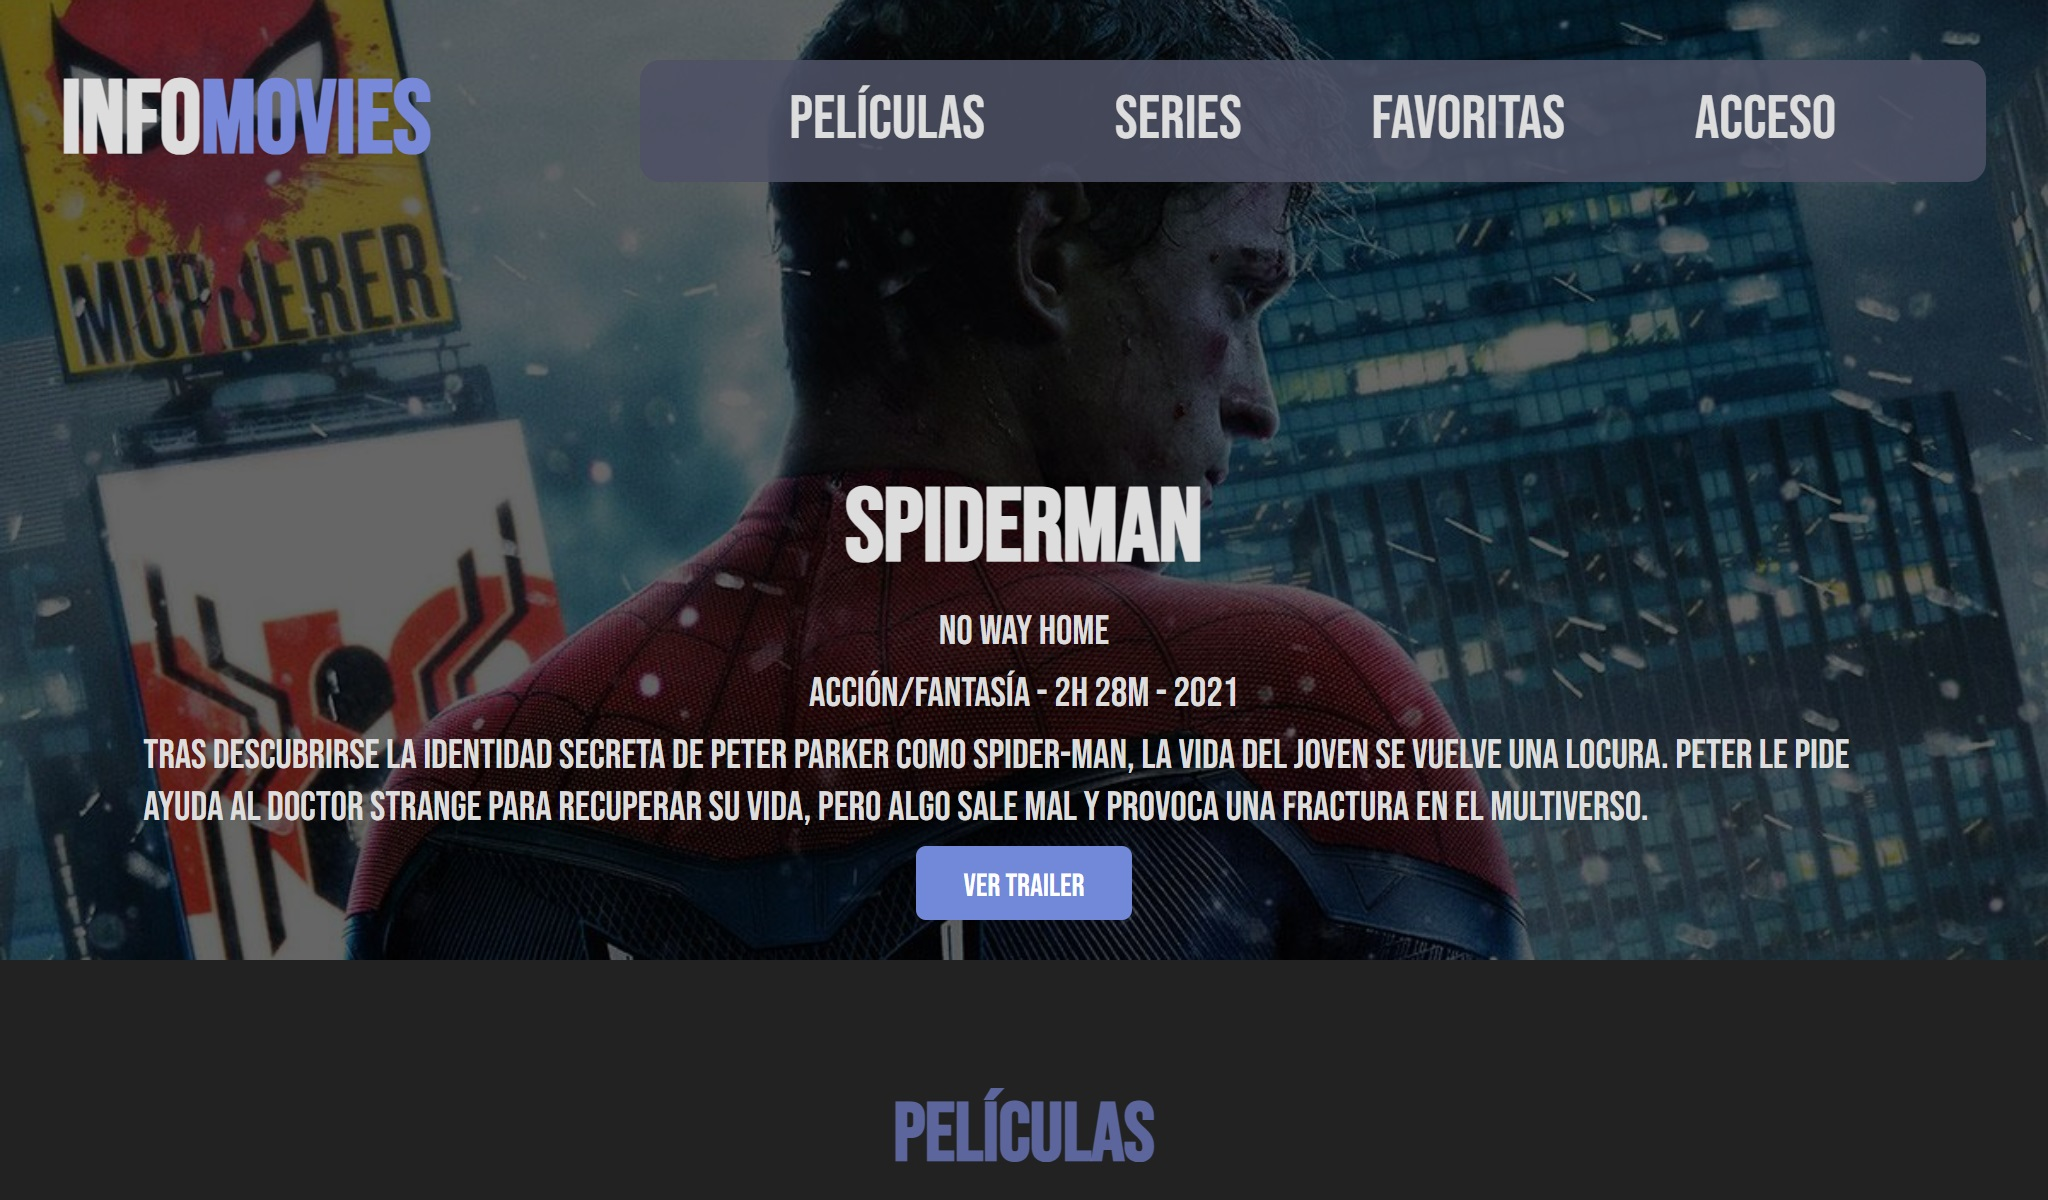
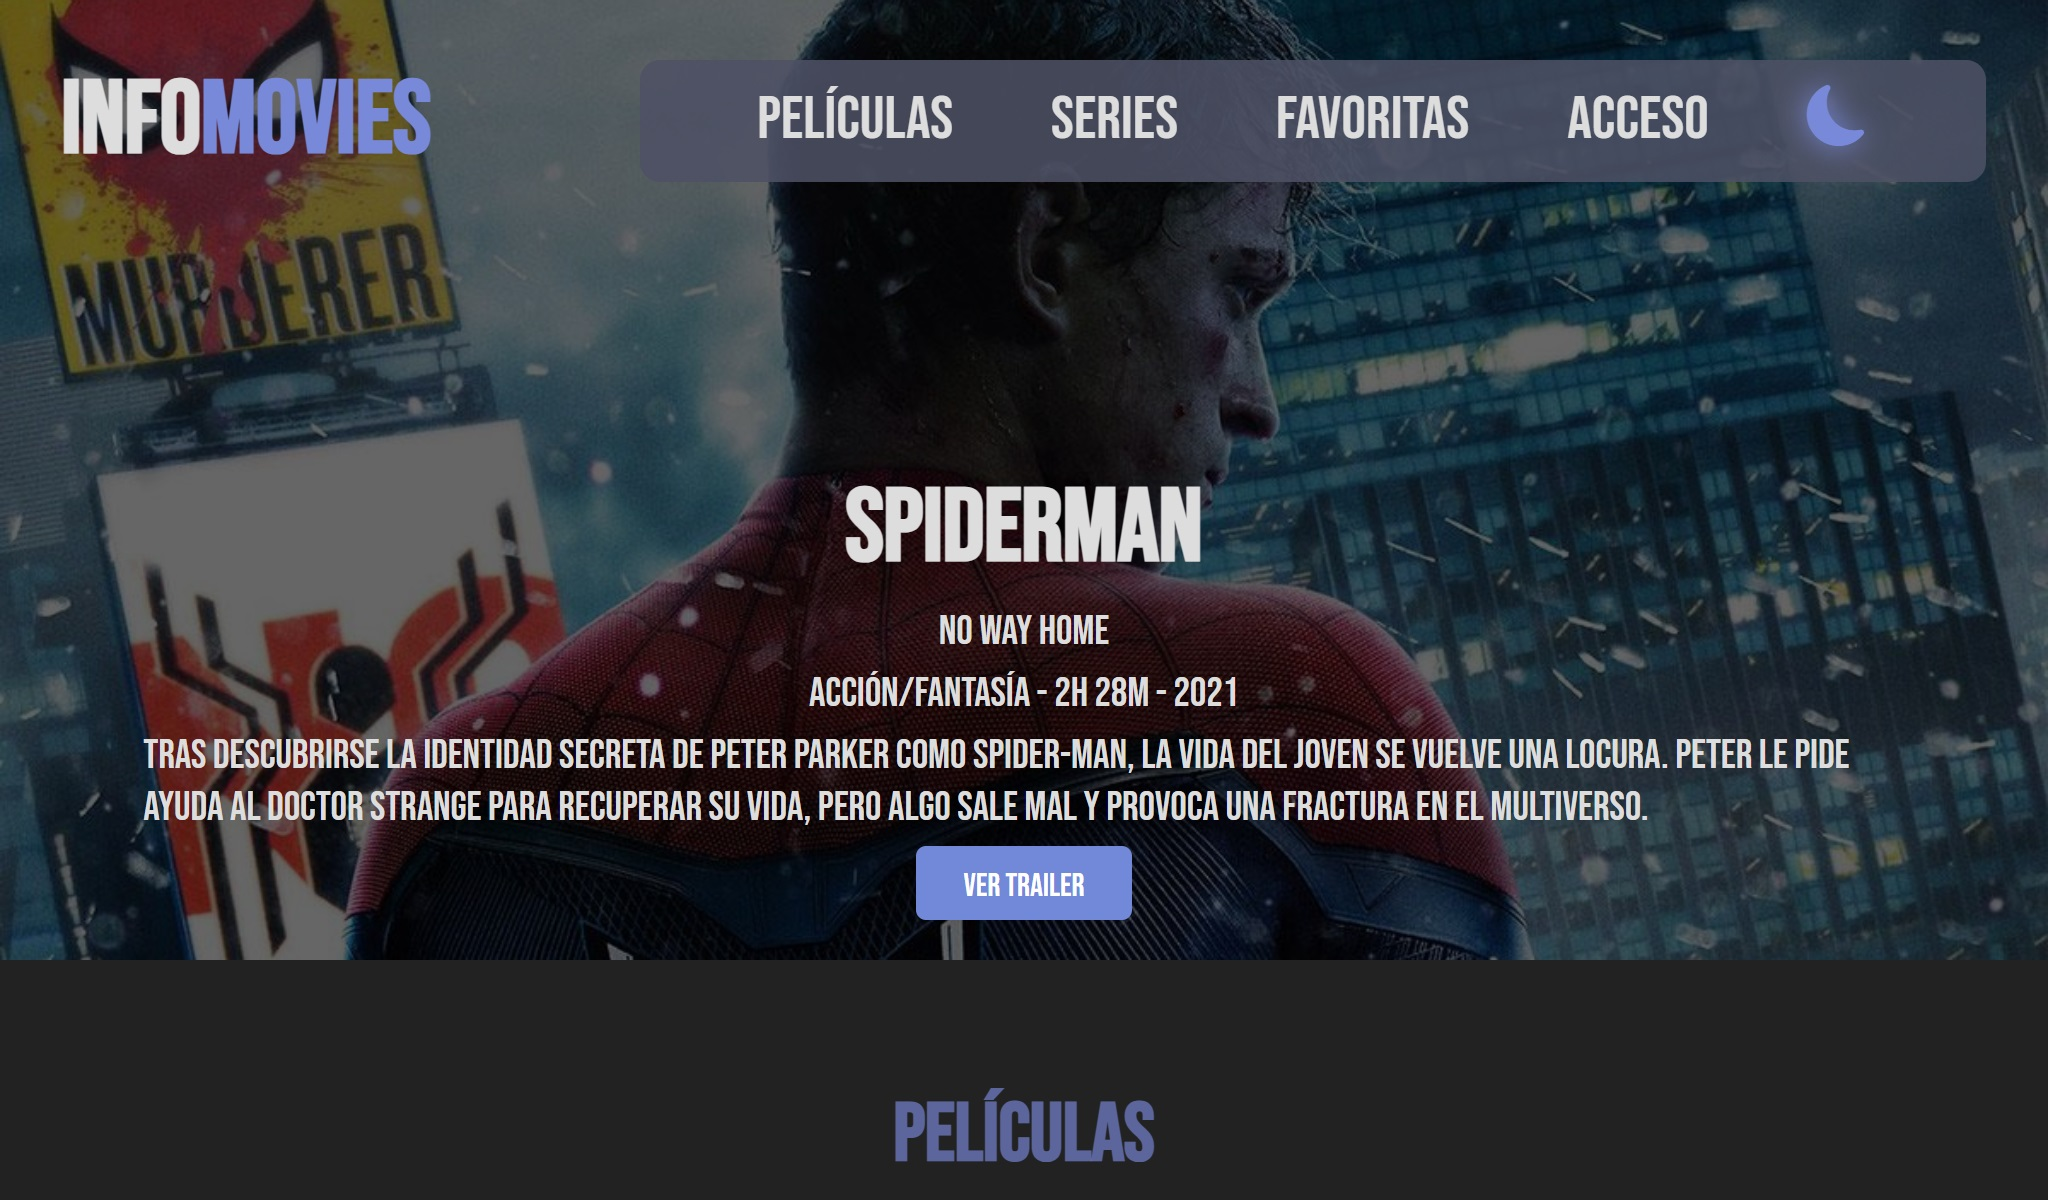
+detalles

Changed region(s): [[0.375, 0.0617, 0.9062, 0.1233]]

diff --git a/formAcceso.html b/formAcceso.html
@@ -3,12 +3,20 @@
   <head>
     <meta charset="UTF-8" />
     <meta name="viewport" content="width=device-width, initial-scale=1.0" />
+    <!-- enlace a bootstrap-icons -->
     <link
       rel="stylesheet"
       href="https://cdn.jsdelivr.net/npm/bootstrap-icons@1.11.3/font/bootstrap-icons.min.css"
     />
+    <!-- enlace a font-awesome -->
+    <link
+    rel="stylesheet"
+    href="https://cdnjs.cloudflare.com/ajax/libs/font-awesome/6.5.2/css/all.min.css"
+    integrity="sha512-SnH5WK+bZxgPHs44uWIX+LLJAJ9/2PkPKZ5QiAj6Ta86w+fsb2TkcmfRyVX3pBnMFcV7oQPJkl9QevSCWr3W6A=="
+    crossorigin="anonymous"
+    referrerpolicy="no-referrer"
+    />
     <link rel="stylesheet" href="styles/style.css" />
-    <link rel="stylesheet" href="https://cdnjs.cloudflare.com/ajax/libs/font-awesome/6.5.2/css/all.min.css" integrity="sha512-SnH5WK+bZxgPHs44uWIX+LLJAJ9/2PkPKZ5QiAj6Ta86w+fsb2TkcmfRyVX3pBnMFcV7oQPJkl9QevSCWr3W6A==" crossorigin="anonymous" referrerpolicy="no-referrer" />
     <title>acceso</title>
   </head>
   <body>
@@ -33,31 +41,45 @@
           <div class="inputGrupo">
             <div class="inputCampo">
               <i class="fa-solid fa-envelope"></i>
-              <input type="email" maxlength="30" placeholder="Correo electrónico" required />
+              <input
+                type="email"
+                maxlength="30"
+                placeholder="Correo electrónico"
+                required
+              />
             </div>
             <div class="inputCampo">
               <i class="fa-solid fa-lock"></i>
-              <input type="password" maxlength="30" placeholder="Contraseña" required />
+              <input
+                type="password"
+                maxlength="30"
+                placeholder="Contraseña"
+                required
+              />
             </div>
-            <p>¿Olvidaste tu Contraseña? <span class="btnRecuperar">Haz clic aquí</span></p>
-            <p>¿Aún no tienes acceso? <span class="btnRegistrate">Regístrate</span></p>
+            <p>
+              ¿Olvidaste tu Contraseña?
+              <span class="btnRecuperar">Haz clic aquí</span>
+            </p>
+            <p>
+              ¿Aún no tienes acceso?
+              <span class="btnRegistrate">Regístrate</span>
+            </p>
           </div>
           <p id="resultadoCaptcha"></p>
           <div class="contenedorCaptcha">
             <span id="captcha" class="captcha"></span>
             <input
-            type="text"
-            maxlength="6"
-            id="captchaInput"
-            class="captchaInput"
-            placeholder="Verifique aquí el código"
-            required
+              type="text"
+              maxlength="6"
+              id="captchaInput"
+              class="captchaInput"
+              placeholder="Verifique aquí el código"
+              required
             />
           </div>
           <div class="btnCampo">
-            <button id="acceder" type="submit">
-              Iniciar sesión
-            </button>
+            <button id="acceder" type="submit">Iniciar sesión</button>
           </div>
         </form>
       </div>
@@ -68,14 +90,17 @@
           <div class="inputGrupo">
             <div class="inputCampo">
               <i class="fa-solid fa-envelope"></i>
-              <input type="email" maxlength="30" placeholder="Correo electrónico" required />
-            </div>            
+              <input
+                type="email"
+                maxlength="30"
+                placeholder="Correo electrónico"
+                required
+              />
+            </div>
           </div>
           <p class="respForm oculto">Mail enviado, continue desde su correo.</p>
           <div class="btnCampo">
-            <button id="recuperar" type="submit">
-              Enviar
-            </button>
+            <button id="recuperar" type="submit">Enviar</button>
           </div>
         </form>
       </div>
@@ -89,14 +114,17 @@
             </div>
             <div class="inputCampo">
               <i class="fa-solid fa-envelope"></i>
-              <input type="email" maxlength="30" placeholder="Correo electrónico" required />
+              <input
+                type="email"
+                maxlength="30"
+                placeholder="Correo electrónico"
+                required
+              />
             </div>
           </div>
           <p class="respForm oculto">Validaremos sus datos desde su correo.</p>
           <div class="btnCampo">
-            <button id="acceder" type="submit">
-              Registrarse
-            </button>
+            <button id="acceder" type="submit">Registrarse</button>
           </div>
         </form>
       </div>

diff --git a/index.html b/index.html
@@ -8,6 +8,7 @@
       href="https://cdn.jsdelivr.net/npm/bootstrap-icons@1.11.3/font/bootstrap-icons.min.css"
     />
     <link rel="stylesheet" href="styles/style.css" />
+    <link rel="stylesheet" id="linkCss" />
     <link rel="shortcut icon" href="infoMovieIcon.ico" type="image/x-icon" />
     <title>InfoMovies</title>
   </head>
@@ -22,6 +23,7 @@
           <li><a href="index.html#series">series</a></li>
           <li><a href="listadoFav.html">favoritas</a></li>
           <li><a href="formAcceso.html">acceso</a></li>
+          <li><i class="iconoModo bi bi-moon-fill"></i></li>
         </ul>
       </nav>
       <h2 id="menuIcono"><i class="menuIcono bi bi-list"></i></h2>
@@ -101,7 +103,6 @@
               ><img
                 src="https://cl.buscafs.com/www.tomatazos.com/public/uploads/images/418884/418884.jpg"
                 alt="Godzilla vs Kong"
-                alt="Godzilla vs Kong"
               />
             </a>
             <p>GODZILLA vs KONG</p>
@@ -124,7 +125,7 @@
             <a href="infoPelis/cobrakai.html"
               ><img
                 src="https://www.orientaserie.it/wp-content/uploads/2022/09/943c076bd04c054b9792bb6b6ed8ba63.jpg"
-                alt="cobra kai"
+                alt="Cobra Kai"
               />
             </a>
             <p>COBRA KAI</p>
@@ -133,7 +134,7 @@
             <a href="infoPelis/theWalkingDead.html"
               ><img
                 src="https://es.web.img3.acsta.net/pictures/18/06/04/13/40/5516999.jpg"
-                alt="twd"
+                alt="The Walking Dead"
               />
             </a>
             <p>THE WALKING DEAD</p>
@@ -142,7 +143,7 @@
             <a href="infoPelis/lucifer.html"
               ><img
                 src="https://www.lavanguardia.com/peliculas-series/images/serie/poster/2016/1/w1280/wQh2ytX0f8IfC3b2mKpDGOpGTXS.jpg"
-                alt="luficer"
+                alt="Luficer"
               />
             </a>
             <p>LUCIFER</p>
@@ -151,7 +152,7 @@
             <a href="infoPelis/invincible.html"
               ><img
                 src="https://pics.filmaffinity.com/Invencible_Serie_de_TV-253390708-large.jpg"
-                alt="invincible"
+                alt="Invincible"
               />
             </a>
             <p>INVINCIBLE</p>
@@ -192,7 +193,7 @@
               <td>1h 52m</td>
               <td>4.2/5</td>
               <td>James Dan</td>
-              <td>Max, Claro ,Apple TV</td>
+              <td>Max, Claro, Apple TV</td>
             </tr>
             <tr>
               <td>Shrek</td>

diff --git a/js/script.js b/js/script.js
@@ -1,7 +1,6 @@
 "use strict";
 
 document.addEventListener("DOMContentLoaded", function () {
- 
   // icono menu
   const menuIcono = document.querySelector(".menuIcono");
 
@@ -19,12 +18,23 @@ document.addEventListener("DOMContentLoaded", function () {
     .forEach((e) => e.addEventListener("click", desplegar));
 
   //mostrar texto y cambiar "+" por "x" en preguntas frecuentes
-  document.querySelectorAll(".pregFrec").forEach(e => {
-    e.addEventListener("click", ()=> {
+  document.querySelectorAll(".pregFrec").forEach((e) => {
+    e.addEventListener("click", () => {
       e.nextElementSibling.classList.toggle("oculto");
       e.lastElementChild.classList.toggle("bi-plus");
       e.lastElementChild.classList.toggle("bi-x");
-    })
+    });
+  });
+
+  //modo oscuro/claro
+  function cambiarModo() {
+    document.querySelector("#linkCss").href = "styles/modoClaro.css";
+  }
+
+  const iconoModo = document.querySelector(".iconoModo");
+  iconoModo.addEventListener("click", ()=> {
+    iconoModo.classList.toggle("bi-moon-fill");
+    iconoModo.classList.toggle("bi-sun-fill");
+    // cambiarModo;
   });
 });
-

diff --git a/js/scriptFav.js b/js/scriptFav.js
@@ -2,14 +2,14 @@
 
 document.addEventListener("DOMContentLoaded", function () {
 
-  //capturo pelis de la lista
+  //capturo pelis de la lista para cambiar img
   document.querySelectorAll(".lista ul li").forEach((e) => 
     e.addEventListener("mouseover", () => 
       document.querySelector(".imgFav img").src = e.id
     )
   );
 
-  // capturo "x" de la lista
+  // capturo "x" de la lista para borrar película
   document.querySelectorAll(".bi-x").forEach((e)=>
     e.addEventListener("click", ()=>
       e.parentElement.remove()    

diff --git a/js/scriptForm.js b/js/scriptForm.js
@@ -18,6 +18,7 @@ document.addEventListener("DOMContentLoaded", function () {
     const captchaElement = document.getElementById("captcha");
     captchaElement.textContent = generarCaptcha();
   }
+  iniciarCaptcha();
 
   document
     .getElementById("miForm")
@@ -35,7 +36,6 @@ document.addEventListener("DOMContentLoaded", function () {
         iniciarCaptcha();
       }
     });
-  iniciarCaptcha();
 
   const btnRecuperar = document.querySelector(".btnRecuperar");
   const btnRegistrate = document.querySelector(".btnRegistrate");

diff --git a/styles/style.css b/styles/style.css
@@ -58,6 +58,10 @@ h1 span {
   color: #7989da;
   text-shadow: 0px 0px 15px #7989da;
 }
+.iconoModo:hover{
+  color: #7989da;
+  text-shadow: 0px 0px 15px #7989da;
+}
 /* main */
 /* contenido principal */
 .peliPrincipal {
@@ -365,7 +369,10 @@ form p span:hover {
 }
 .captcha {
   color: #eee;
-  /* te */
+  -webkit-user-select: none;
+  -moz-user-select: none;
+  -ms-user-select: none;
+  user-select: none;
 }
 /* puntos de quiebre */
 @media (width >= 481px) {

diff --git a/infoPelis/titans.html b/infoPelis/titans.html
@@ -58,7 +58,7 @@
         </div>
         <div class="oculto contenidoQuizasGuste">
           <div class="peliculasSimilares">
-            <a href="teenWolf.html">
+            <a href="teenWolf.html" >
               <img
               src="https://i.pinimg.com/736x/93/8e/41/938e4197e25f97e6a69b83b45dbac74b.jpg"
               alt="Teen wolf"

diff --git a/infoPelis/invincible.html b/infoPelis/invincible.html
@@ -64,7 +64,7 @@
                 alt="Titans"
               />
             </a>
-            <a href="teenWolf.html">
+            <a href="teenWolf.html" >
               <img
                 src="https://i.pinimg.com/736x/93/8e/41/938e4197e25f97e6a69b83b45dbac74b.jpg"
                 alt="Teen wolf"

diff --git a/infoPelis/lucifer.html b/infoPelis/lucifer.html
@@ -70,7 +70,7 @@
                 alt="Titans"
               />
             </a>
-            <a href="teenWolf.html">
+            <a href="teenWolf.html" >
               <img
                 src="https://i.pinimg.com/736x/93/8e/41/938e4197e25f97e6a69b83b45dbac74b.jpg"
                 alt="Teen wolf"
